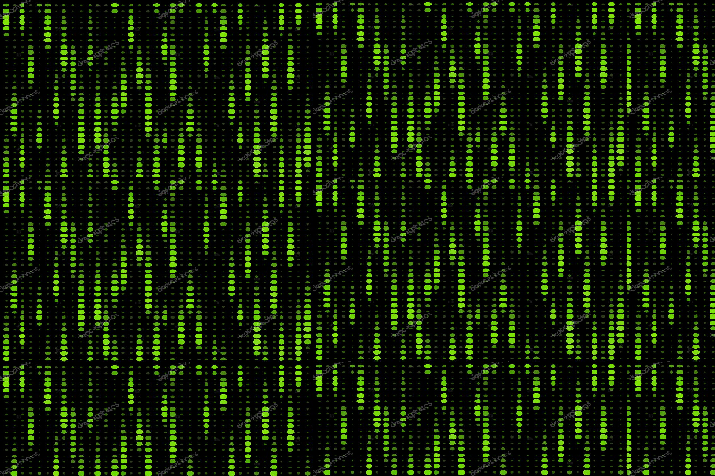
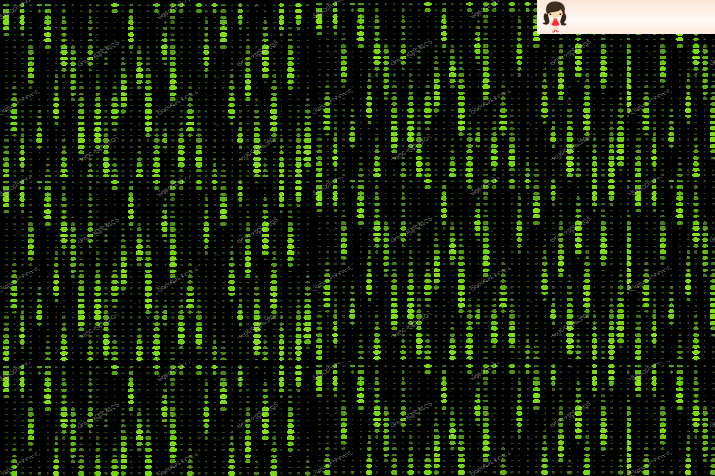
Unificación método verificar e imagen nueva de fondo

Changed region(s): [[0.7385, 0.0, 1.0, 0.0882]]

diff --git a/src/laberinto/solapamientoLaberinto.py b/src/laberinto/solapamientoLaberinto.py
@@ -4,33 +4,29 @@ class SolapamientoLaberinto:
         self.tablero = tablero
 
     def verificar(self, posiblePos):
-        camino = self.verificarCamino(posiblePos)
-        virus = self.verificarVirus(posiblePos)
-        meta = self.verificarMeta(posiblePos)
-        return camino or virus or meta
-
-    def verificarCamino(self, posiblePos):
-        dict = self.tablero.accederLista()
+        caminoB = False
+        virusB = False
+        metaB = False
+        dict = self.tablero.dictCuadros
         for piso in dict['camino']:
-            if piso.obtenerPosicion() == posiblePos:
-                return True
-        return False
-
-    def verificarVirus(self, posiblePos):
-        dict = self.tablero.accederLista()
+            (x, y) = (piso.posicion.x, piso.posicion.y)
+            if (x, y) == posiblePos:
+                caminoB = True
         for virus in dict['virus']:
-            if virus.obtenerPosicion() == posiblePos:
-                for mensaje in dict['mensaje']:
-                    if mensaje.getNombre() == 'perdida':
-                        mensaje.permitirDibujo(True)
-                return True
-        return False
-
-    def verificarMeta(self, posiblePos):
-        dict = self.tablero.accederLista()
-        if dict['meta'].obtenerPosicion() == posiblePos:
+            (x, y) = (virus.posicion.x, virus.posicion.y)
+            if (x, y) == posiblePos:
+                dict['personaje'].numeroVidas -= 1
+                corazon = dict['personaje'].numeroVidas
+                dict['vidas'][corazon].booleano = 0
+                if dict['personaje'].numeroVidas == 0:
+                    for mensaje in dict['mensaje']:
+                        if mensaje.getNombre() == 'perdida':
+                            mensaje.permitirDibujo(True)
+                virusB = True
+        (a, b) = (dict['meta'].posicion.x, dict['meta'].posicion.y)
+        if (a, b) == posiblePos:
             for mensaje in dict['mensaje']:
                 if mensaje.getNombre() == 'victoria':
                     mensaje.permitirDibujo(True)
-            return True
-        return False
+            metaB = True
+        return caminoB or virusB or metaB
